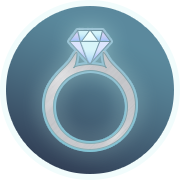
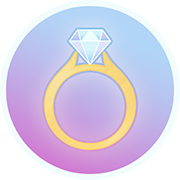
init

diff --git a/src/views/agreement.vue b/src/views/agreement.vue
@@ -2,11 +2,11 @@
   <div class="pt">
     <v-header>注册协议</v-header>
     <div class="content">
-      <p class="title">《FENIX菲尼莎珠宝微信商城用户注册和使用协议》</p>
+      <p class="title">《嗨钻珠宝微信商城用户注册和使用协议》</p>
       <div class="section">
         <p class="sub-title">一、服务条款的确认及接受</p>
-        <p class="text">1、FENIX微信商城软件（以下称“本软件”）各项电子服务的所有权和运作权归属于“FENIX菲尼莎珠宝”所有，本软件提供的服务将完全按照其发布的服务条款和操作规则严格执行。您确认所有服务条款并完成注册程序时，本协议在您与本软件间成立并发生法律效力，同时您成为本软件正式用户。</p>
-        <p class="text">2、根据国家法律法规变化及本软件运营需要，FENIX菲尼莎珠宝有权对本协议条款及相关规则不时地进行修改，修改后的内容一旦以任何形式公布在本软件上即生效，并取代此前相关内容，您应不时关注本软件公告、提示信息及协议、规则等相关内容的变动。您知悉并确认，如您不同意更新后的内容，应立即停止使用本软件；如您继续使用本软件，即视为知悉变动内容并同意接受。</p>
+        <p class="text">1、嗨钻微信商城软件（以下称“本软件”）各项电子服务的所有权和运作权归属于“嗨钻珠宝”所有，本软件提供的服务将完全按照其发布的服务条款和操作规则严格执行。您确认所有服务条款并完成注册程序时，本协议在您与本软件间成立并发生法律效力，同时您成为本软件正式用户。</p>
+        <p class="text">2、根据国家法律法规变化及本软件运营需要，嗨钻珠宝有权对本协议条款及相关规则不时地进行修改，修改后的内容一旦以任何形式公布在本软件上即生效，并取代此前相关内容，您应不时关注本软件公告、提示信息及协议、规则等相关内容的变动。您知悉并确认，如您不同意更新后的内容，应立即停止使用本软件；如您继续使用本软件，即视为知悉变动内容并同意接受。</p>
       </div>
       <div class="section">
         <p class="sub-title">二、服务需知</p>
@@ -16,7 +16,7 @@
         <p class="sub-text">(3)选择与所安装终端设备相匹配的软件版本。</p>
         <p class="text">2、基于本软件所提供的网络服务的重要性，您确认并同意：</p>
         <p class="sub-text">(1)提供的注册资料真实、准确、完整、合法有效，注册资料如有变动的，应及时更新；</p>
-        <p class="sub-text">(2)如果您提供的注册资料不合法、不真实、不准确、不详尽的，您需承担因此引起的相应责任及后果，并且FENIX菲尼莎珠宝保留终止您使用本软件各项服务的权利。</p>
+        <p class="sub-text">(2)如果您提供的注册资料不合法、不真实、不准确、不详尽的，您需承担因此引起的相应责任及后果，并且嗨钻珠宝保留终止您使用本软件各项服务的权利。</p>
       </div>
       <div class="section">
         <p class="sub-title">三、订单</p>
@@ -35,14 +35,14 @@
       </div>
       <div class="section">
         <p class="sub-title">五、用户个人信息保护及授权</p>
-        <p class="text"><b>1、您知悉并同意，为方便您使用本软件相关服务，本软件将存储您在使用时的必要信息，包括但不限于您的真实姓名、性别、生日、配送地址、联系方式等。</b>除法律法规规定的情形外，未经您的许可FENIX菲尼莎珠宝不会向第三方公开、透露您的个人信息。FENIX菲尼莎珠宝对相关信息采取专业加密存储与传输方式，利用合理措施保障用户个人信息的安全。</p>
-        <p class="text"><b>2、您知悉并确认，您在注册帐号或使用本软件的过程中，需要提供真实的身份信息，FENIX菲尼莎珠宝将根据国家法律法规相关要求，进行基于移动电话号码的真实身份信息认证。若您提供的信息不真实、不完整，或在不同场合下存在信息的不一致，则无法使用本软件或在使用过程中受到限制，同时，由此产生的不利后果，由您自行承担。</b></p>
+        <p class="text"><b>1、您知悉并同意，为方便您使用本软件相关服务，本软件将存储您在使用时的必要信息，包括但不限于您的真实姓名、性别、生日、配送地址、联系方式等。</b>除法律法规规定的情形外，未经您的许可嗨钻珠宝不会向第三方公开、透露您的个人信息。嗨钻珠宝对相关信息采取专业加密存储与传输方式，利用合理措施保障用户个人信息的安全。</p>
+        <p class="text"><b>2、您知悉并确认，您在注册帐号或使用本软件的过程中，需要提供真实的身份信息，嗨钻珠宝将根据国家法律法规相关要求，进行基于移动电话号码的真实身份信息认证。若您提供的信息不真实、不完整，或在不同场合下存在信息的不一致，则无法使用本软件或在使用过程中受到限制，同时，由此产生的不利后果，由您自行承担。</b></p>
         <p class="text"><b>3、您在使用本软件某一特定服务时，该服务可能会另有单独的协议、相关业务规则等（以下统称为“单独协议”），您在使用该项服务前请阅读并同意相关的单独协议；您使用前述特定服务，即视为您已阅读并同意接受相关单独协议。</b></p>
         <p class="text">4、您充分理解并同意：</p>
         <p class="sub-text"><b>(1)接收通过邮件、短信、电话等形式，向在本软件注册、购物的用户、收货人发送的订单信息、促销活动等内容；</b></p>
-        <p class="sub-text"><b>(2)为配合行政监管机关、司法机关执行工作，在法律规定范围内FENIX菲尼莎珠宝有权向上述行政、司法机关提供您在使用本软件时所储存的相关信息，包括但不限于您的注册信息等，或使用相关信息进行证据保全，包括但不限于公证、见证等；</b></p>
-        <p class="sub-text"><b>(3)FENIX菲尼莎珠宝依法保障您在安装或使用过程中的知情权和选择权，在您使用本软件服务过程中，涉及您设备自带功能的服务会提前征得您同意，您一经确认，FENIX菲尼莎珠宝有权开启包括但不限于收集地理位置、读取通讯录、使用摄像头、启用录音等提供服务必要的辅助功能。</b></p>
-        <p class="sub-text"><b>(4)FENIX菲尼莎珠宝有权根据实际情况，在法律规定范围内自行决定单个用户在本软件及服务中数据的最长储存期限以及用户日志的储存期限，并在服务器上为其分配数据最大存储空间等。</b></p>
+        <p class="sub-text"><b>(2)为配合行政监管机关、司法机关执行工作，在法律规定范围内嗨钻珠宝有权向上述行政、司法机关提供您在使用本软件时所储存的相关信息，包括但不限于您的注册信息等，或使用相关信息进行证据保全，包括但不限于公证、见证等；</b></p>
+        <p class="sub-text"><b>(3)嗨钻珠宝依法保障您在安装或使用过程中的知情权和选择权，在您使用本软件服务过程中，涉及您设备自带功能的服务会提前征得您同意，您一经确认，嗨钻珠宝有权开启包括但不限于收集地理位置、读取通讯录、使用摄像头、启用录音等提供服务必要的辅助功能。</b></p>
+        <p class="sub-text"><b>(4)嗨钻珠宝有权根据实际情况，在法律规定范围内自行决定单个用户在本软件及服务中数据的最长储存期限以及用户日志的储存期限，并在服务器上为其分配数据最大存储空间等。</b></p>
       </div>
       <div class="section">
         <p class="sub-title">六、用户行为规范</p>
@@ -61,37 +61,37 @@
       <div class="section">
         <p class="sub-title">七、软件使用规范</p>
         <p class="text">1、关于软件的获取与更新：</p>
-        <p class="sub-text">(1)您可以直接从FENIX菲尼莎珠宝的网站上获取本软件，也可以从得到FENIX菲尼莎珠宝授权的第三方获取，如果您从未经FENIX菲尼莎珠宝授权的第三方获取本软件或与本软件名称相同的安装程序，FENIX菲尼莎珠宝无法保证该软件能够正常使用，并对因此给您造成的损失不予负责；</p>
-        <p class="sub-text">(2)为了改善用户体验、完善服务内容，FENIX菲尼莎珠宝将不断努力开发新的服务，并为您不时提供软件更新，本软件新版本发布后，旧版本的软件可能无法使用，FENIX菲尼莎珠宝不保证旧版本软件继续可用及相应的客户服务，请您随时核对并下载最新版本。</p>
-        <p class="text">2、除非法律允许或FENIX菲尼莎珠宝书面许可，您使用本软件过程中不得从事下列行为：</p>
+        <p class="sub-text">(1)您可以直接从嗨钻珠宝的网站上获取本软件，也可以从得到嗨钻珠宝授权的第三方获取，如果您从未经嗨钻珠宝授权的第三方获取本软件或与本软件名称相同的安装程序，嗨钻珠宝无法保证该软件能够正常使用，并对因此给您造成的损失不予负责；</p>
+        <p class="sub-text">(2)为了改善用户体验、完善服务内容，嗨钻珠宝将不断努力开发新的服务，并为您不时提供软件更新，本软件新版本发布后，旧版本的软件可能无法使用，嗨钻珠宝不保证旧版本软件继续可用及相应的客户服务，请您随时核对并下载最新版本。</p>
+        <p class="text">2、除非法律允许或嗨钻珠宝书面许可，您使用本软件过程中不得从事下列行为：</p>
         <p class="sub-text">(1)删除本软件及其副本上关于著作权的信息；</p>
         <p class="sub-text">(2)对本软件进行反向工程、反向汇编、反向编译，或者以其他方式尝试发现本软件的源代码；</p>
-        <p class="sub-text">(3)对FENIX菲尼莎珠宝拥有知识产权的内容进行使用、出租、出借、复制、修改、链接、转载、汇编、发表、出版、建立镜像站点等；</p>
-        <p class="sub-text">(4)对本软件或者本软件运行过程中释放到任何终端内存中的数据、软件运行过程中客户端与服务器端的交互数据，以及本软件运行所必需的系统数据，进行复制、修改、增加、删除、挂接运行或创作任何衍生作品，形式包括但不限于使用插件、外挂或非经FENIX菲尼莎珠宝授权的第三方工具/服务接入本软件和相关系统；</p>
+        <p class="sub-text">(3)对嗨钻珠宝拥有知识产权的内容进行使用、出租、出借、复制、修改、链接、转载、汇编、发表、出版、建立镜像站点等；</p>
+        <p class="sub-text">(4)对本软件或者本软件运行过程中释放到任何终端内存中的数据、软件运行过程中客户端与服务器端的交互数据，以及本软件运行所必需的系统数据，进行复制、修改、增加、删除、挂接运行或创作任何衍生作品，形式包括但不限于使用插件、外挂或非经嗨钻珠宝授权的第三方工具/服务接入本软件和相关系统；</p>
         <p class="sub-text">(5)通过修改或伪造软件运行中的指令、数据，增加、删减、变动软件的功能或运行效果，或者将用于上述用途的软件、方法进行运营或向公众传播，无论这些行为是否为商业目的；</p>
-        <p class="sub-text">(6)通过非FENIX菲尼莎珠宝开发、授权的第三方软件、插件、外挂、系统，登录或使用FENIX菲尼莎珠宝软件及服务，或制作、发布、传播上述工具；</p>
+        <p class="sub-text">(6)通过非嗨钻珠宝开发、授权的第三方软件、插件、外挂、系统，登录或使用嗨钻珠宝软件及服务，或制作、发布、传播上述工具；</p>
         <p class="sub-text">(7)自行或者授权他人、第三方软件对本软件及其组件、模块、数据进行干扰。</p>
       </div>
       <div class="section">
         <p class="sub-title">八、违约责任</p>
-        <p class="text">1、如果FENIX菲尼莎珠宝发现或收到他人举报投诉您违反本协议约定的，FENIX菲尼莎珠宝有权不经通知随时对相关内容进行删除、屏蔽，并视行为情节对违规帐号处以包括但不限于警告、限制或禁止使用部分或全部功能、帐号封禁直至注销的处罚，并公告处理结果。</p>
-        <p class="text"><b>2、FENIX菲尼莎珠宝有权依据合理判断对违反有关法律法规或本协议规定的行为采取适当的法律行动，并依据法律法规保存有关信息向有关部门报告等，您应独自承担由此而产生的一切法律责任。</b></p>
-        <p class="text"><b>3、您理解并同意，因您违反本协议或相关服务条款的规定，导致或产生第三方主张的任何索赔、要求或损失，您应当独立承担责任；FENIX菲尼莎珠宝因此遭受损失的，您也应当一并赔偿。</b></p>
-        <p class="text">4、除非另有明确的书面说明,FENIX菲尼莎珠宝不对本软件的运营及其包含在本软件上的信息、内容、材料、产品（包括软件）或服务作任何形式的、明示或默示的声明或担保（根据中华人民共和国法律另有规定的以外）。</p>
+        <p class="text">1、如果嗨钻珠宝发现或收到他人举报投诉您违反本协议约定的，嗨钻珠宝有权不经通知随时对相关内容进行删除、屏蔽，并视行为情节对违规帐号处以包括但不限于警告、限制或禁止使用部分或全部功能、帐号封禁直至注销的处罚，并公告处理结果。</p>
+        <p class="text"><b>2、嗨钻珠宝有权依据合理判断对违反有关法律法规或本协议规定的行为采取适当的法律行动，并依据法律法规保存有关信息向有关部门报告等，您应独自承担由此而产生的一切法律责任。</b></p>
+        <p class="text"><b>3、您理解并同意，因您违反本协议或相关服务条款的规定，导致或产生第三方主张的任何索赔、要求或损失，您应当独立承担责任；嗨钻珠宝因此遭受损失的，您也应当一并赔偿。</b></p>
+        <p class="text">4、除非另有明确的书面说明,嗨钻珠宝不对本软件的运营及其包含在本软件上的信息、内容、材料、产品（包括软件）或服务作任何形式的、明示或默示的声明或担保（根据中华人民共和国法律另有规定的以外）。</p>
       </div>
       <div class="section">
         <p class="sub-title">九、所有权及知识产权</p>
-        <p class="text">1、您一旦接受本协议，即表明您主动将您在任何时间段在本软件发表的任何形式的信息内容（包括但不限于客户评价、客户咨询、各类话题文章等信息内容）的财产性权利等任何可转让的权利，如著作权财产权（包括并不限于：复制权、发行权、出租权、展览权、表演权、放映权、广播权、信息网络传播权、摄制权、改编权、翻译权、汇编权以及应当由著作权人享有的其他可转让权利），<b>全部独家且不可撤销地转让给FENIX菲尼莎珠宝所有，并且您同意FENIX菲尼莎珠宝有权就任何主体侵权而单独提起诉讼。</b></p>
-        <p class="text">2、本协议已经构成《中华人民共和国著作权法》第二十五条（条文序号依照2010年修订版《著作权法》确定）及相关法律规定的著作财产权等权利转让书面协议，其效力及于您在FENIX菲尼莎珠宝软件上发布的任何受著作权法保护的作品内容，无论该等内容形成于本协议订立前还是本协议订立后。</p>
+        <p class="text">1、您一旦接受本协议，即表明您主动将您在任何时间段在本软件发表的任何形式的信息内容（包括但不限于客户评价、客户咨询、各类话题文章等信息内容）的财产性权利等任何可转让的权利，如著作权财产权（包括并不限于：复制权、发行权、出租权、展览权、表演权、放映权、广播权、信息网络传播权、摄制权、改编权、翻译权、汇编权以及应当由著作权人享有的其他可转让权利），<b>全部独家且不可撤销地转让给嗨钻珠宝所有，并且您同意嗨钻珠宝有权就任何主体侵权而单独提起诉讼。</b></p>
+        <p class="text">2、本协议已经构成《中华人民共和国著作权法》第二十五条（条文序号依照2010年修订版《著作权法》确定）及相关法律规定的著作财产权等权利转让书面协议，其效力及于您在嗨钻珠宝软件上发布的任何受著作权法保护的作品内容，无论该等内容形成于本协议订立前还是本协议订立后。</p>
         <p class="text">3、您同意并已充分了解本协议的条款，承诺不将已发表于本软件的信息，以任何形式发布或授权其它主体以任何方式使用（包括但不限于在各类网站、媒体上使用）。</p>
-        <p class="text"><b>4、除法律另有强制性规定外，未经FENIX菲尼莎珠宝明确的特别书面许可,任何单位或个人不得以任何方式非法地全部或部分复制、转载、引用、链接、抓取或以其他方式使用本软件的信息内容，否则，FENIX菲尼莎珠宝有权追究其法律责任。</b></p>
-        <p class="text">5、本软件所刊登的资料信息（诸如文字、图表、标识、按钮图标、图像、声音文件片段、数字下载、数据编辑和软件），均是FENIX菲尼莎珠宝或其内容提供者的财产，受中国和国际版权法的保护。本软件上所有内容的汇编是FENIX菲尼莎珠宝的排他财产，受中国和国际版权法的保护。本软件上所有软件都是FENIX菲尼莎珠宝或其关联公司或其软件供应商的财产，受中国和国际版权法的保护。</p>
+        <p class="text"><b>4、除法律另有强制性规定外，未经嗨钻珠宝明确的特别书面许可,任何单位或个人不得以任何方式非法地全部或部分复制、转载、引用、链接、抓取或以其他方式使用本软件的信息内容，否则，嗨钻珠宝有权追究其法律责任。</b></p>
+        <p class="text">5、本软件所刊登的资料信息（诸如文字、图表、标识、按钮图标、图像、声音文件片段、数字下载、数据编辑和软件），均是嗨钻珠宝或其内容提供者的财产，受中国和国际版权法的保护。本软件上所有内容的汇编是嗨钻珠宝的排他财产，受中国和国际版权法的保护。本软件上所有软件都是嗨钻珠宝或其关联公司或其软件供应商的财产，受中国和国际版权法的保护。</p>
       </div>
       <div class="section">
         <p class="sub-title">十、法律管辖适用及其他</p>
         <p class="text">1、本协议的订立、执行和解释及争议的解决均应适用中国法律。如双方就本协议内容或其执行发生任何争议，双方应尽力友好协商解决；协商不成时，任何一方均可向协议签订地人民法院提起诉讼。本协议签订地为中华人民共和国山西省太原市小店区。</p>
         <p class="text">2、如果本协议中任何一条被视为废止、无效或因任何理由不可执行，该条应视为可分的且并不影响任何其余条款的有效性和可执行性。</p>
-        <p class="text">3、本协议未明示授权的其他权利仍由FENIX菲尼莎珠宝保留，您在行使这些权利时须另外取得FENIX菲尼莎珠宝的书面许可。FENIX菲尼莎珠宝如果未行使前述任何权利，并不构成对该权利的放弃。</p>
+        <p class="text">3、本协议未明示授权的其他权利仍由嗨钻珠宝保留，您在行使这些权利时须另外取得嗨钻珠宝的书面许可。嗨钻珠宝如果未行使前述任何权利，并不构成对该权利的放弃。</p>
         <p class="text">4、本协议内容中以加粗、下划线等方式显著标识的条款，请您着重阅读。您点击“同意”按钮即视为您完全接受本协议，在点击之前请您再次确认已知悉并完全理解本协议的全部内容。</p>
       </div>
     </div>
@@ -121,8 +121,8 @@
   .title {
     text-align: center;
     font-size: 30px;
-    color:#666;
-    padding: 60px 0
+    color: #666;
+    padding: 60px 0;
   }
 
   .section {

diff --git a/src/views/freebuy.vue b/src/views/freebuy.vue
@@ -3,13 +3,13 @@
     <div class="appointment" @click="$router.push({'name':'bespeak'})">
       <img :src="getUserInfo._YUYUE" alt="" srcset="">
     </div>
-    <div v-if="0" class="instalments" @click="goPage">
+    <div class="instalments" @click="goPage">
       <img :src="getUserInfo.fenqi" alt="" srcset="">
     </div>
     <div class="buttons flex">
       <div class="btn" @click="$router.push({name:'index'})"><img src="@/assets/home/button_home_b.png" alt=""></div>
       <button class="btn-txt btn-txt1" @click="goGoodsList()">全部作品</button>
-      <button class="btn-txt btn-txt2">无忧购</button>
+      <button v-if="0" class="btn-txt btn-txt2">无忧购</button>
       <div class="btn" @click="gomypage">
         <img :src="getUserInfo.avatar" alt="">
       </div>
@@ -71,13 +71,13 @@
         overflow: hidden;
       }
       .btn-txt {
-        width: 160px;
+        width: 280px;
         height: 60px;
         border-radius: 30px;
         background-color: rgba(255, 255, 255, 0.6);
         border: 0;
         &1 {
-          margin: 0 24px 0 91px;
+          margin: 0 91px 0 91px;
         }
         &2 {
           margin: 0 91px 0 24px;

diff --git a/src/views/user/components/footer.vue b/src/views/user/components/footer.vue
@@ -2,7 +2,7 @@
   <div class="buttons flex">
     <div class="btn" @click="$router.push({name:'index'})"><img src="@/assets/home/button_home_b.png" alt=""></div>
     <button class="btn-txt btn-txt1" @click="goGoodsList()">全部作品</button>
-    <button class="btn-txt btn-txt2" @click="$router.push({name:'freebuy'})">无忧购</button>
+    <button v-if="0" class="btn-txt btn-txt2" @click="$router.push({name:'freebuy'})">无忧购</button>
     <div class="btn" @click="$router.push({name:'mypage'})">
       <img :src="getUserInfo.avatar" alt="">
     </div>
@@ -39,13 +39,13 @@
         overflow: hidden;
       }
       .btn-txt {
-        width: 160px;
+        width: 280px;
         height: 60px;
         border-radius: 30px;
         background-color: rgba(255, 255, 255, 0.6);
         border: 0;
         &1 {
-          margin: 0 24px 0 91px;
+          margin: 0 91px 0 91px;
         }
         &2 {
           margin: 0 91px 0 24px;

diff --git a/src/views/Home.vue b/src/views/Home.vue
@@ -25,7 +25,7 @@
     <div class="buttons flex">
       <div class="btn"><img src="@/assets/home/button_home.png" alt=""></div>
       <button class="btn-txt btn-txt1" @click="goGoodsList()">全部作品</button>
-      <button class="btn-txt btn-txt2" @click="$router.push({name:'freebuy'})">无忧购</button>
+      <button v-if="0" class="btn-txt btn-txt2" @click="$router.push({name:'freebuy'})">无忧购</button>
       <div class="btn" @click="goMypage()"><img :src="getUserInfo.avatar" alt=""></div>
     </div>
   </div>
@@ -132,13 +132,13 @@
       overflow: hidden;
     }
     .btn-txt {
-      width: 160px;
+      width: 280px;
       height: 60px;
       border-radius: 30px;
       background-color: rgba(255, 255, 255, 0.6);
       border: 0;
       &1 {
-        margin: 0 24px 0 91px;
+        margin: 0 91px 0 91px;
       }
       &2 {
         margin: 0 91px 0 24px;

diff --git a/public/static/config.js b/public/static/config.js
@@ -1,12 +1,12 @@
 (function(win) {
   win.htp = {
-    appid: 'wx874409c4b2732586',
-    apihost: 'http://shop.fenix-world.com/', //接口地址2
+    appid: 'wxccaad3ca82d9ff75',
+    apihost: 'http://hi.cc-jewel.com/', //接口地址2
     designWidth: 750,
     mock: false,
-    wxproxy: 'http://shop.fenix-world.com/wx.proxy.html',
+    wxproxy: 'http://hi.cc-jewel.com/wx.proxy.html',
     iswxproxy: true,
     wxconfig: ['hideOptionMenu', 'showOptionMenu', 'checkJsApi', 'onMenuShareTimeline', 'onMenuShareAppMessage', 'openLocation', 'getLocation', 'chooseWXPay', 'addCard', 'chooseCard', 'openCard', 'scanQRCode'],
-    appName: 'FENIX'
+    appName: '嗨钻珠宝'
   };
 })(window);

diff --git a/public/index.html b/public/index.html
@@ -9,7 +9,7 @@
   <meta name="apple-mobile-web-app-capable" content="no" />
   <meta name="apple-mobile-web-app-status-bar-style" content="black" />
   <meta http-equiv="Cache-Control" content="must-revalidate,no-cache" />
-  <title>FENIX菲尼莎珠宝</title>
+  <title>嗨钻珠宝</title>
   <link rel="stylesheet" type="text/css" href="static/style.css" />
   <link rel="stylesheet" type="text/css" href="static/font-awesome.min.css" />
   <script src="static/jweixin-1.0.0.js" type="text/javascript" charset="utf-8"></script>

diff --git a/vue.config.js b/vue.config.js
@@ -20,7 +20,7 @@ module.exports = {
     // 设置代理
     proxy: {
       '/api': {
-        target: 'http://shop.fenix-world.com',
+        target: 'http://hi.cc-jewel.com',
         changeOrigin: true,
         pathRewrite: {
           '^/proxy': ''

diff --git a/src/style/vars.less b/src/style/vars.less
@@ -1,6 +1,6 @@
-@color1: #b4dcd2;
-@color2: #64cbea;
-@color3: #e1f8fa;
-@color4: #9dc8be;
-@color5: #89def8;
-@color6: #b4dcd2;
+@color1: #c3d79b;
+@color2: #f79e55;
+@color3: #fffaf0;
+@color4: #cdb49b;
+@color5: #ffaf69;
+@color6: #d7cdbe;

diff --git a/src/views/refunddetail.vue b/src/views/refunddetail.vue
@@ -191,7 +191,7 @@
       }
       p {
         margin-top: 20px;
-        color: #9dc8be;
+        color: @color4;
         font-size: 20px;
         border-bottom: 2px solid #f0f0f0;
         padding-bottom: 30px;
